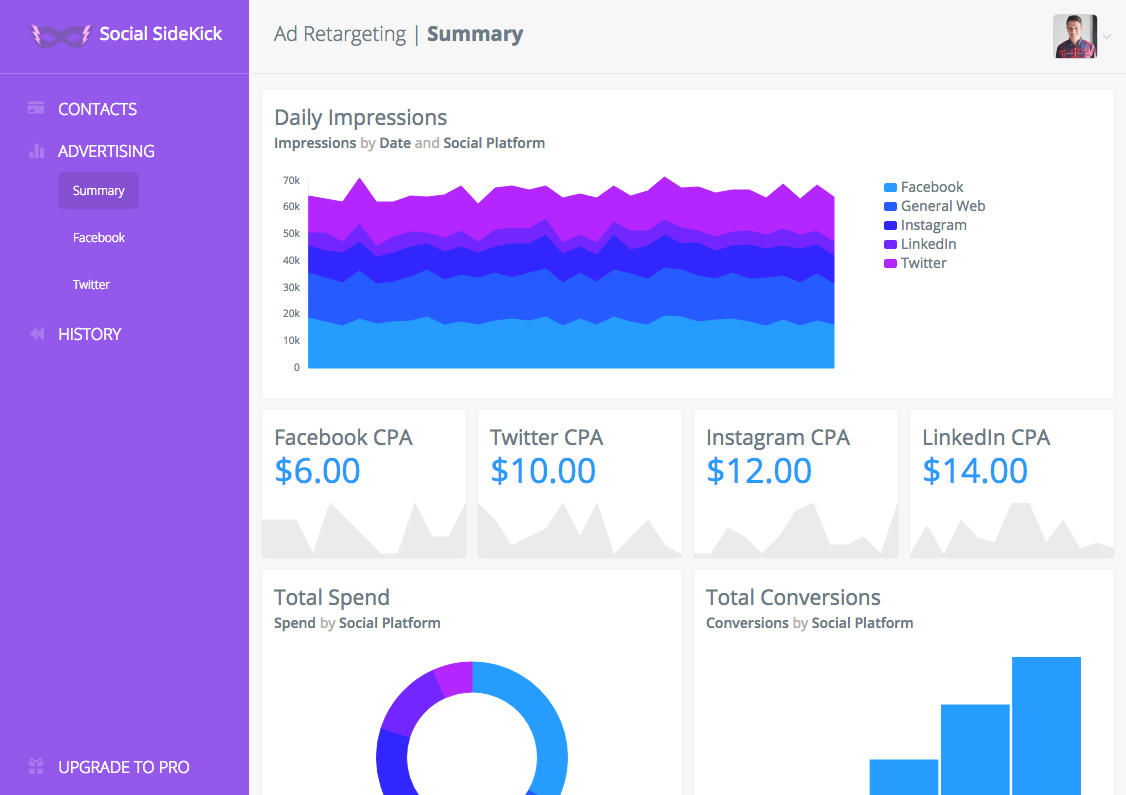
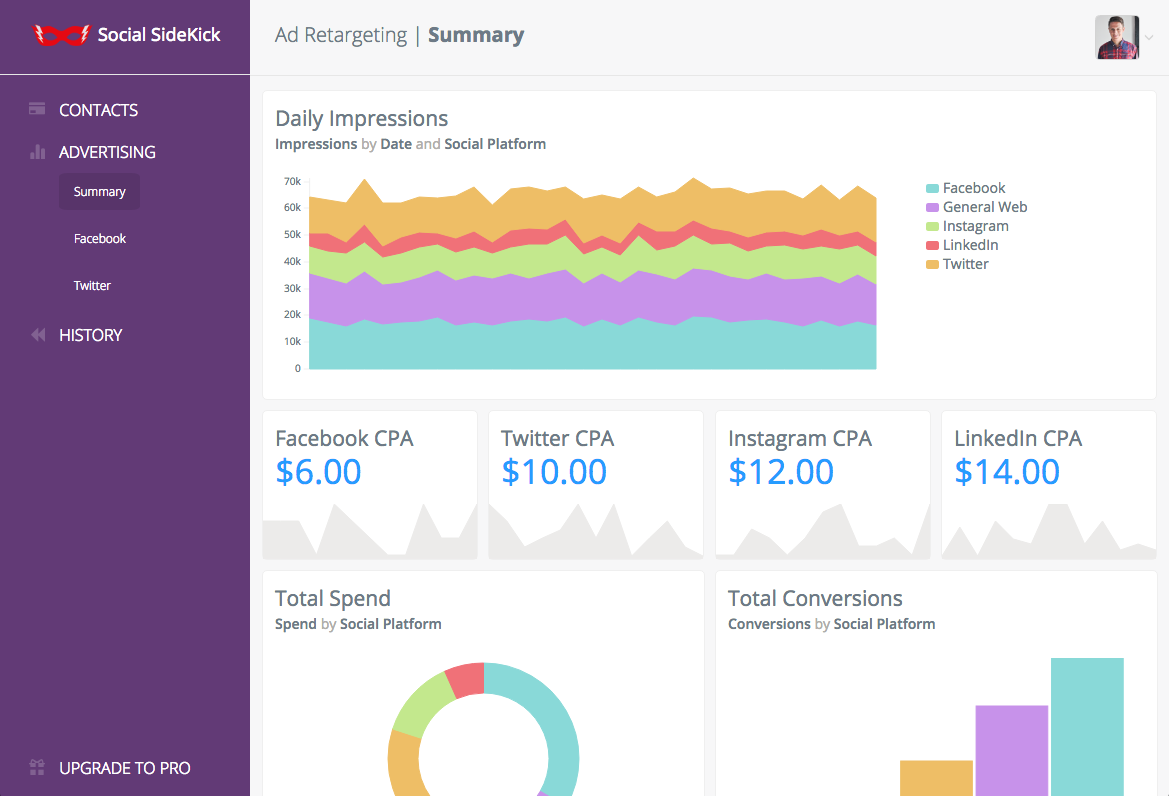
Install custom colors in martech sample app

diff --git a/martech-sample-app/assets/css/main.css b/martech-sample-app/assets/css/main.css
@@ -2,10 +2,10 @@
 
 html {
   height: 100%;
-  background: -webkit-radial-gradient(white 40%, #cee9ff); /* Safari */
-  background: -o-radial-gradient(white 40%, #cee9ff); /* Opera 11.6 to 12.0 */
-  background: -moz-radial-gradient(white 40%, #cee9ff); /* Firefox 3.6 to 15 */
-  background: radial-gradient(white 40%, #cee9ff); /* Standard syntax */
+  background: -webkit-radial-gradient(white 10%, #aea3b4); /* Safari */
+  background: -o-radial-gradient(white 10%, #aea3b4); /* Opera 11.6 to 12.0 */
+  background: -moz-radial-gradient(white 10%, #aea3b4); /* Firefox 3.6 to 15 */
+  background: radial-gradient(white 10%, #aea3b4); /* Standard syntax */
 }
 
 body {
@@ -54,7 +54,7 @@ label {
 .sidebar {
   width: 250px;
   height: 100%;
-  background: #9459EA;
+  background: #623a76;
   position: fixed;
 }
 
@@ -223,7 +223,7 @@ label {
   }
 
   .logo img {
-    height: 35px;
+    height: 38px;
     padding-top: 5px;
   }
 }
